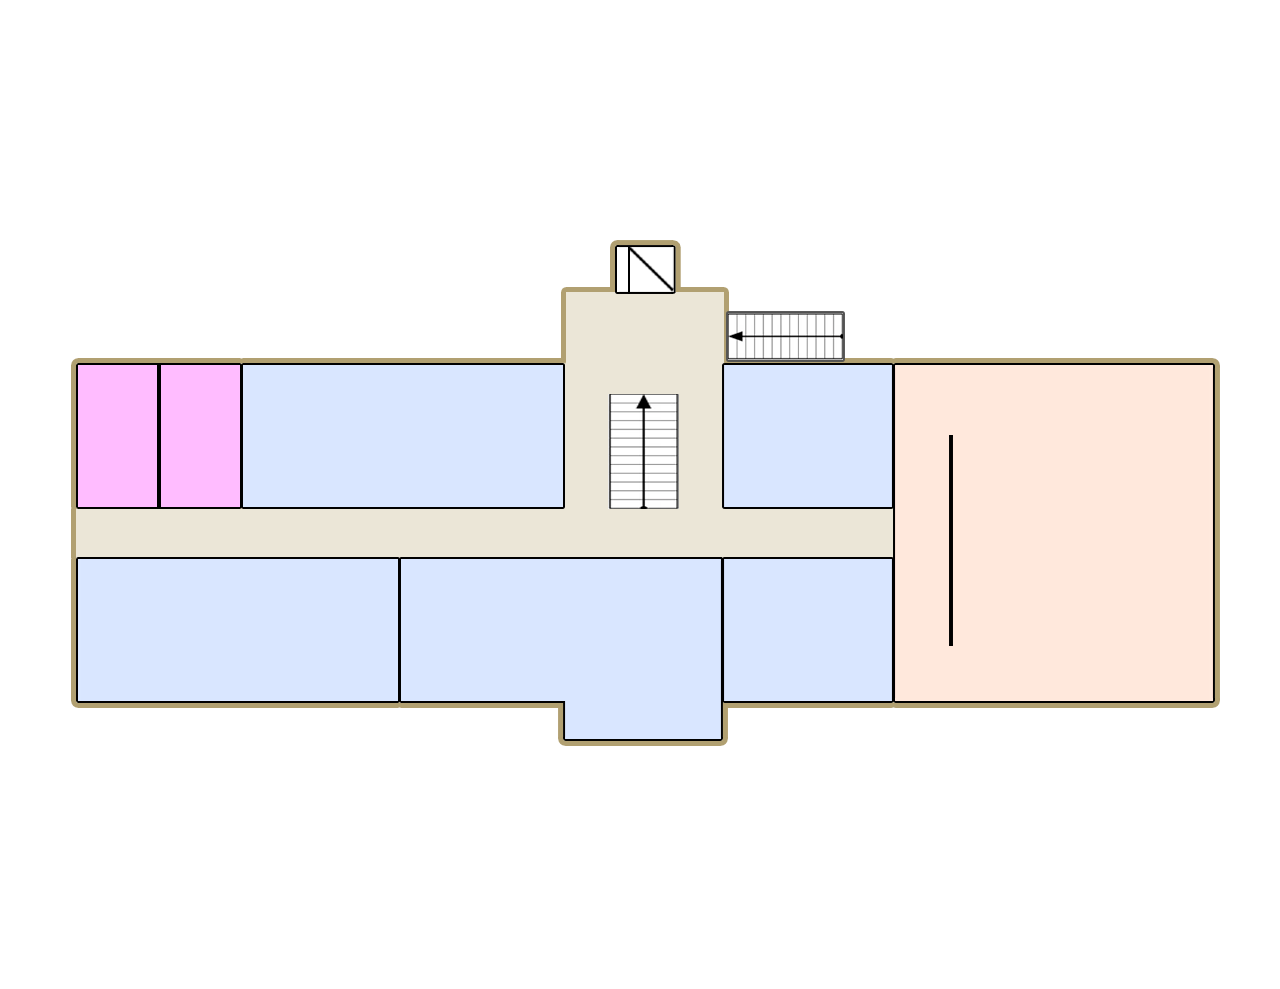
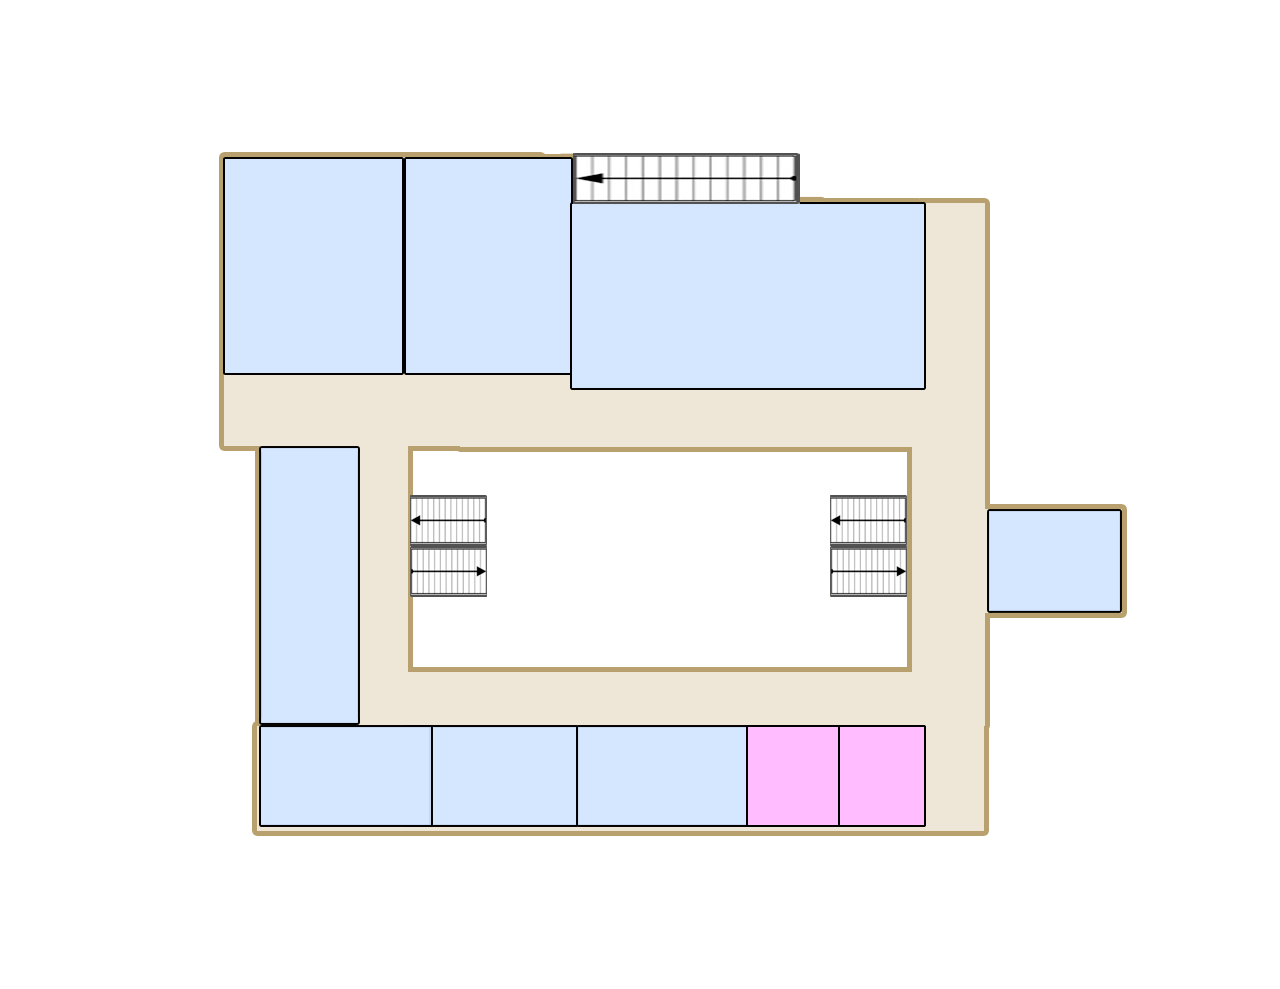
destacados, piso quimica y sacar zoom al continuar de piso

diff --git a/src/components/PlanoViewer/NavigationPanel.jsx b/src/components/PlanoViewer/NavigationPanel.jsx
@@ -34,7 +34,7 @@ const NavigationPanel = ({
   const [isAuthenticated, setIsAuthenticated] = useState(false);
   const [showOrigenSelector, setShowOrigenSelector] = useState(false);
   const [expandedSections, setExpandedSections] = useState({
-    destacados: true, // 🔥 NUEVO: Sección destacados expandida por defecto
+    destacados: true, // 🔥 MODIFICADO: Sección destacados expandida por defecto
     aulas: false,
     departamentos: false,
     escaleras: false,
@@ -97,9 +97,10 @@ const NavigationPanel = ({
     node.id !== origenFijoLocal
   );
 
-  const getDepartamentos = () => {
+  // 🔥 MODIFICADO: Obtener nodos destacados por el atributo "destacado"
+  const getDestacados = () => {
     return nodosDisponibles.filter(node => 
-      node && node.tipo === 'departamento'
+      node && node.destacado === true // 🔥 CAMBIO: Usar atributo destacado en lugar de solo departamentos
     );
   };
 
@@ -208,7 +209,7 @@ const NavigationPanel = ({
 
   const getNodoInfo = (nodoId) => nodosDisponibles.find(n => n.id === nodoId);
   const destinoInfo = getNodoInfo(gpsNavigation.destino);
-  const departamentos = getDepartamentos();
+  const destacados = getDestacados(); // 🔥 CAMBIO: Usar destacados en lugar de departamentos
   const nodosOrganizados = getNodosOrganizados();
 
   const handleSelectDestino = (nodeId) => {
@@ -319,9 +320,9 @@ const NavigationPanel = ({
     );
   };
 
-  // 🔥 MODIFICADO: Renderizar sección destacados unificada
+  // 🔥 MODIFICADO: Renderizar sección destacados con áreas y puntos destacados
   const renderDestacadosSection = () => {
-    if (departamentos.length === 0) {
+    if (destacados.length === 0) {
       return null;
     }
 
@@ -335,12 +336,12 @@ const NavigationPanel = ({
           onPress={() => toggleSection('destacados')}
         >
           <View style={styles.categoriaTitleContainer}>
-            <View style={[styles.categoriaIconContainer, { backgroundColor: '#2196F3' }]}>
-              <Text style={styles.categoriaIcon}>🏛</Text>
+            <View style={[styles.categoriaIconContainer, { backgroundColor: '#FFD700' }]}>
+              <Text style={styles.categoriaIcon}>⭐</Text>
             </View>
             <View style={styles.categoriaTextContainer}>
-              <Text style={styles.categoriaTitle}>Departamentos Destacados</Text>
-              <Text style={styles.categoriaSubtitle}>{departamentos.length} departamentos principales</Text>
+              <Text style={styles.categoriaTitle}>Destacados</Text>
+              <Text style={styles.categoriaSubtitle}>{destacados.length} elementos destacados</Text>
             </View>
           </View>
           <View style={[
@@ -356,7 +357,7 @@ const NavigationPanel = ({
         {expandedSections.destacados && (
           <View style={styles.categoriaContent}>
             <View style={styles.destacadosGrid}>
-              {departamentos.map((node, index) => (
+              {destacados.map((node, index) => (
                 <TouchableOpacity
                   key={node.id}
                   style={[
@@ -370,7 +371,7 @@ const NavigationPanel = ({
                     { backgroundColor: getCardColor(node.tipo) }
                   ]}>
                     <Text style={styles.destacadoIcon}>
-                      {ICONS[node.tipo] || '🏛'}
+                      {ICONS[node.tipo] || '⭐'}
                     </Text>
                   </View>
                   <Text style={styles.destacadoName} numberOfLines={2}>
@@ -381,6 +382,9 @@ const NavigationPanel = ({
                   </Text>
                   <Text style={styles.destacadoCarrera} numberOfLines={1}>
                     {getCarreraInfo(node)}
+                  </Text>
+                  <Text style={styles.destacadoTipo} numberOfLines={1}>
+                    {getTipoDisplayName(node.tipo)}
                   </Text>
                   {gpsNavigation.destino === node.id && (
                     <View style={styles.selectedBadge}>
@@ -494,7 +498,7 @@ const NavigationPanel = ({
 
     return (
       <View style={styles.todasLasSecciones}>
-        {/* 🔥 DESTACADOS PRIMERO */}
+        {/* 🔥 DESTACADOS PRIMERO - Ahora muestra todos los nodos con atributo destacado */}
         {renderDestacadosSection()}
         
         {/* 🔥 TODAS LAS OTRAS CATEGORÍAS DESPUÉS */}
@@ -592,8 +596,6 @@ const NavigationPanel = ({
           <Text style={styles.closeButtonIcon}>✕</Text>
         </TouchableOpacity>
       </View>
-
-      {/* 🔥 ELIMINADO: Tabs container */}
 
       <ScrollView 
         style={styles.content} 
@@ -763,6 +765,25 @@ const NavigationPanel = ({
       </Modal>
     </Animated.View>
   );
+};
+
+// 🔥 NUEVA FUNCIÓN: Obtener nombre display para el tipo
+const getTipoDisplayName = (tipo) => {
+  const tipoNombres = {
+    'aula': 'Aula',
+    'departamento': 'Departamento',
+    'escalera': 'Escalera',
+    'bano': 'Baño',
+    'hall': 'Hall',
+    'area_generica': 'Área',
+    'extintor': 'Extintor',
+    'salida_emergencia': 'Salida',
+    'botiquin': 'Botiquín',
+    'desfibrilador': 'Desfibrilador',
+    'alarma': 'Alarma',
+    'totem': 'Tótem'
+  };
+  return tipoNombres[tipo] || tipo;
 };
 
 // FUNCIONES AUXILIARES (mantener igual)

diff --git a/src/components/PlanoViewer/PlanoViewer.jsx b/src/components/PlanoViewer/PlanoViewer.jsx
@@ -1,4 +1,4 @@
-// PlanoViewer.jsx - VERSIÓN COMPLETA ACTUALIZADA PARA RECIBIR PARÁMETROS
+// PlanoViewer.jsx - VERSIÓN CORREGIDA
 import React, { useState, useEffect } from 'react';
 import {
   View,
@@ -30,9 +30,17 @@ const PlanoViewer = ({ navigation, route }) => {
   const [origenFijo, setOrigenFijo] = useState(null);
   const [showContinuarButton, setShowContinuarButton] = useState(false);
   const fadeAnim = useState(new Animated.Value(0))[0];
+  
+  // 🔥 NUEVO: Referencia para controlar el zoom desde el padre
+  const [resetZoomTrigger, setResetZoomTrigger] = useState(0);
 
-  // 🔥 NUEVO: Obtener parámetros de navegación
+  // 🔥 CORREGIDO: Obtener parámetros de navegación correctamente
   const { aulaDestino, materiaNombre, carrera } = route.params || {};
+
+  // 🔥 NUEVO: Función para resetear el zoom
+  const handleResetZoom = () => {
+    setResetZoomTrigger(prev => prev + 1);
+  };
 
   useEffect(() => {
     planoManager.inicializarPlanosCarrera('general');
@@ -71,12 +79,12 @@ const PlanoViewer = ({ navigation, route }) => {
     }
   }, [gpsNavigation.mostrarContinuar, gpsNavigation.getInfoSegmentoActual, planoManager]);
 
-  // 🔥 NUEVO: Buscar automáticamente el aula destino cuando lleguen los parámetros
+  // 🔥 CORREGIDO: Buscar automáticamente el aula destino cuando lleguen los parámetros
   useEffect(() => {
     if (aulaDestino && mapData.getAllNodes && !mapData.loading && origenFijo) {
       buscarAulaYCalcularRuta(aulaDestino, materiaNombre);
     }
-  }, [aulaDestino, mapData.getAllNodes, mapData.loading, origenFijo]);
+  }, [aulaDestino, mapData.getAllNodes, mapData.loading, origenFijo, materiaNombre]);
 
   // 🔥 NUEVO: Mostrar/ocultar botón continuar
   useEffect(() => {
@@ -267,7 +275,7 @@ const PlanoViewer = ({ navigation, route }) => {
     setShowControlPanel(!showControlPanel);
   };
 
-  // 🔥 CORREGIDO: Manejar clic en botón continuar con cambio de carrera
+  // 🔥 CORREGIDO: Manejar clic en botón continuar con cambio de carrera Y RESETEO DE ZOOM
   const handleContinuar = () => {
     const siguienteSegmento = gpsNavigation.avanzarSiguienteSegmento();
     if (siguienteSegmento && siguienteSegmento.planoId) {
@@ -277,6 +285,9 @@ const PlanoViewer = ({ navigation, route }) => {
         segmento: siguienteSegmento.index + 1,
         total: siguienteSegmento.total
       });
+      
+      // 🔥 NUEVO: Resetear el zoom antes de cambiar de plano
+      handleResetZoom();
       
       // 🔥 MODIFICADO: Cambiar a la carrera correcta si es necesario
       const carreraRequerida = siguienteSegmento.planoInfo?.carrera;
@@ -407,7 +418,7 @@ const PlanoViewer = ({ navigation, route }) => {
         <StatusBar barStyle="dark-content" />
         
         {/* 🔥 NUEVO: Información del destino */}
-   
+        {renderDestinoInfo()}
         
         <PlanoMap
           plano={planoManager.planoActual}
@@ -438,6 +449,8 @@ const PlanoViewer = ({ navigation, route }) => {
               planoManager.inicializarPlanosCarrera('general');
             }
           }}
+          // 🔥 NUEVO: Pasar la prop para resetear zoom
+          resetZoomTrigger={resetZoomTrigger}
         />
         
         {/* 🔥 MEJORADO: Botón Continuar con información de carrera */}

diff --git a/src/components/PlanoViewer/PlanoMap.jsx b/src/components/PlanoViewer/PlanoMap.jsx
@@ -1,3 +1,4 @@
+// PlanoMap.jsx - AGREGAR RESET DE ZOOM EXTERNO
 import React, { useCallback, useState, useEffect } from 'react';
 import {
   View,
@@ -30,7 +31,9 @@ const PlanoMap = ({
   onStartNavigation,
   rutaCompleta = [],
   segmentosRuta = [],
-  onCancelarViaje
+  onCancelarViaje,
+  // 🔥 NUEVO: Prop para resetear zoom externamente
+  resetZoomTrigger = 0
 }) => {
   const { 
     adaptNode, 
@@ -52,6 +55,14 @@ const PlanoMap = ({
   } = useZoomPan();
 
   const [showZoomControls, setShowZoomControls] = useState(true);
+
+  // 🔥 NUEVO: Efecto para reaccionar al trigger de reset de zoom
+  useEffect(() => {
+    if (resetZoomTrigger > 0) {
+      console.log('🔄 Reseteando zoom por trigger externo');
+      reset();
+    }
+  }, [resetZoomTrigger, reset]);
 
   // 🔥 NUEVO: Efecto para manejar cambios de plano automáticos durante navegación
   useEffect(() => {
